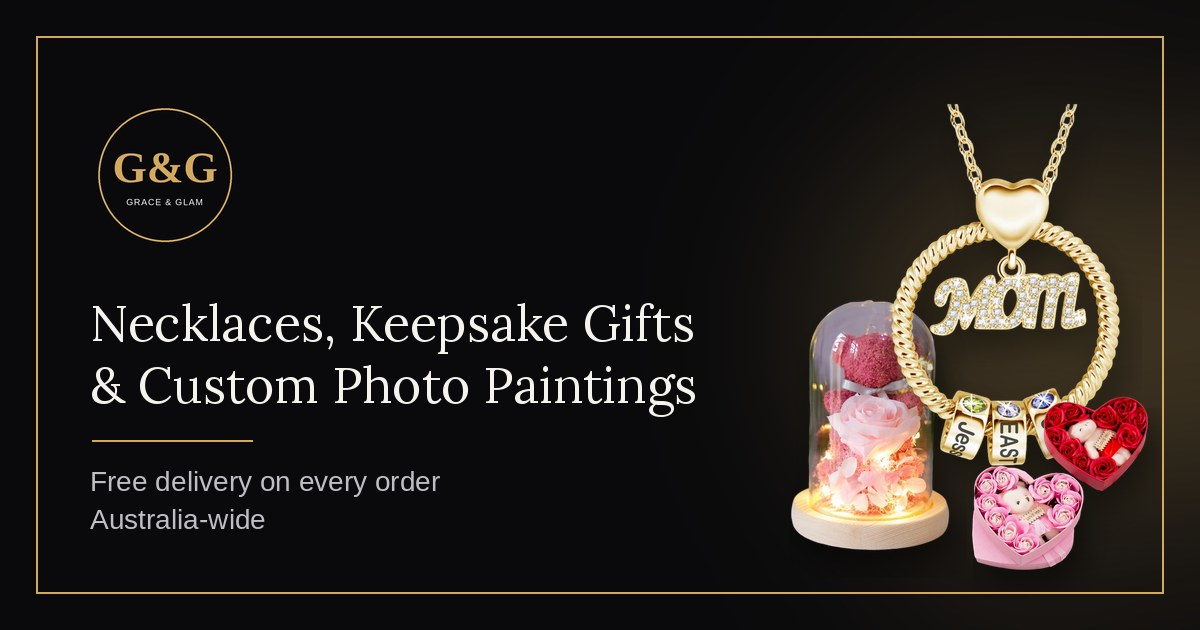
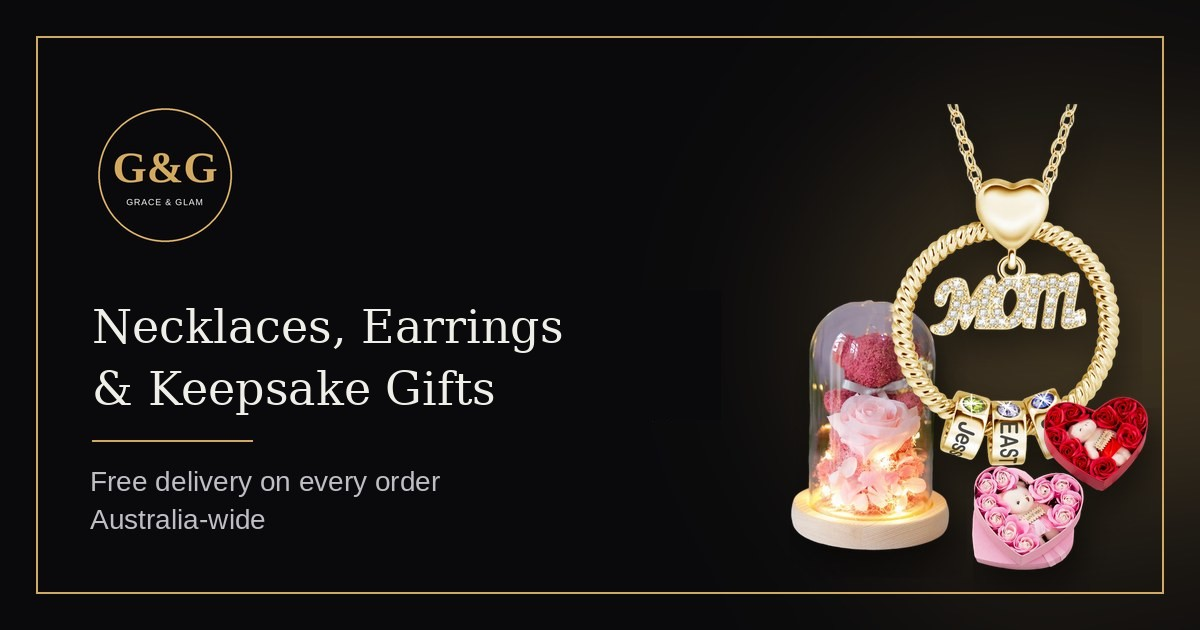
Fix SEO titles, share image and domain/email defaults for graceandglame.com
Claude-Session: https://claude.ai/code/session_01VXDeAGdUYDML9GMwgAADzR

Changed region(s): [[0.0617, 0.4825, 0.5858, 0.6635]]

diff --git a/src/app/layout.tsx b/src/app/layout.tsx
@@ -18,22 +18,23 @@ const inter = Inter({
 });
 
 const DESCRIPTION =
-  'Bespoke custom keepsakes & personalized gifts Australia. Necklaces, keepsake gift boxes and custom photo paintings. Free delivery on every order, Australia-wide.';
+  'Necklaces, earrings and keepsake gift boxes in Australia. Pendants, heart and pearl necklaces, rose gift sets and more. Free delivery on every order, Australia-wide.';
 
 export const metadata: Metadata = {
   metadataBase: new URL(SITE_URL),
 
   title: {
-    default: `${SITE.name} | Necklaces, Keepsake Gifts & Custom Photo Paintings Australia`,
+    default: `${SITE.name} | Necklaces, Earrings & Keepsake Gifts Australia`,
     template: `%s | ${SITE.name}`,
   },
   description: DESCRIPTION,
   keywords: [
-    'Custom Photo Painting Australia',
     'Necklaces Australia',
+    'Pendant Necklaces Australia',
+    'Heart Necklaces Australia',
+    'Pearl Necklaces Australia',
     'Keepsake Gift Boxes Australia',
-    '5D Diamond Art Australia',
-    'Personalized Jewelry Sydney Melbourne Brisbane',
+    'Jewellery Gifts Australia',
   ],
   applicationName: SITE.name,
   authors: [{ name: SITE.name, url: SITE_URL }],
@@ -51,14 +52,14 @@ export const metadata: Metadata = {
     siteName: SITE.name,
     locale: SITE.locale,
     url: SITE_URL,
-    title: `${SITE.name} | Necklaces, Keepsake Gifts & Custom Photo Paintings`,
+    title: `${SITE.name} | Necklaces, Earrings & Keepsake Gifts`,
     description: DESCRIPTION,
     images: [{ url: '/brand/og-default.jpg', width: 1200, height: 630, alt: 'Grace & Glam' }],
   },
 
   twitter: {
     card: 'summary_large_image',
-    title: `${SITE.name} | Necklaces, Keepsake Gifts & Custom Photo Paintings`,
+    title: `${SITE.name} | Necklaces, Earrings & Keepsake Gifts`,
     description: DESCRIPTION,
     images: ['/brand/og-default.jpg'],
   },

diff --git a/src/lib/seo.ts b/src/lib/seo.ts
@@ -10,7 +10,7 @@ import { Product, getAllImages, getDiscountPercent, getTotalStock } from '@/type
  * NEXT_PUBLIC_SITE_URL in the deployment environment.
  */
 export const SITE_URL = (
-  process.env.NEXT_PUBLIC_SITE_URL ?? 'https://graceandglam.com.au'
+  process.env.NEXT_PUBLIC_SITE_URL ?? 'https://graceandglame.com'
 ).replace(/\/$/, '');
 
 interface PostalAddress {
@@ -29,7 +29,7 @@ export const SITE = {
   language: 'en-AU',
   country: 'AU',
   currency: BRAND_CONFIG.currency,
-  email: 'sales@graceglam.com.au',
+  email: 'graceandglame.au@gmail.com',
   // No street address or phone until real ones exist. The placeholders that
   // were here ("72 Luxury Boulevard, Suite 4B" and a made-up 1800 number) were
   // being published in the Organization JSON-LD, where a false address is the

diff --git a/src/components/common/Footer.tsx b/src/components/common/Footer.tsx
@@ -59,8 +59,8 @@ export default function Footer() {
             <div className="space-y-3 text-sm text-gray-300 font-light">
               <div className="flex items-center gap-3 group">
                 <Mail className="w-4 h-4 text-[#d3a95d] shrink-0" />
-                <a href="mailto:sales@graceglam.com.au" className="hover:text-[#d3a95d] transition-colors">
-                  sales@graceglam.com.au
+                <a href="mailto:graceandglame.au@gmail.com" className="hover:text-[#d3a95d] transition-colors">
+                  graceandglame.au@gmail.com
                 </a>
               </div>
               <div className="flex items-center gap-3 group">

diff --git a/src/components/maison/TheMaisonPortal.tsx b/src/components/maison/TheMaisonPortal.tsx
@@ -473,10 +473,10 @@ export default function TheMaisonPortal({ initialTab = 'about' }: TheMaisonPorta
           <div className="p-6 bg-[#faf8f4] border border-gray-200 rounded-2xl">
             <p className="text-xs uppercase tracking-widest text-[#d3a95d] font-bold mb-1">Email</p>
             <a
-              href="mailto:sales@graceglam.com.au"
+              href="mailto:graceandglame.au@gmail.com"
               className="text-black font-semibold text-sm sm:text-base hover:text-[#d3a95d] transition-colors break-all"
             >
-              sales@graceglam.com.au
+              graceandglame.au@gmail.com
             </a>
           </div>
 

diff --git a/src/app/api/webhooks/stripe/route.ts b/src/app/api/webhooks/stripe/route.ts
@@ -14,7 +14,7 @@ export const runtime = 'nodejs';
  * non-2xx answer, so infrastructure errors return 500 on purpose.
  *
  * Setup (Stripe dashboard → Developers → Webhooks → Add endpoint):
- *   URL:    https://graceandglam.com.au/api/webhooks/stripe
+ *   URL:    https://graceandglame.com/api/webhooks/stripe
  *   Events: checkout.session.completed
  *           checkout.session.async_payment_succeeded
  * Copy the endpoint's signing secret (whsec_…) into STRIPE_WEBHOOK_SECRET.

diff --git a/src/lib/email.ts b/src/lib/email.ts
@@ -35,7 +35,7 @@ function getTransporter() {
  */
 export async function sendOrderConfirmationEmail({ to, order, customText }: EmailOptions): Promise<boolean> {
   const transporter = getTransporter();
-  const from = process.env.SMTP_FROM || `"Grace & Glam" <${process.env.SMTP_USER || "no-reply@graceandglam.com.au"}>`;
+  const from = process.env.SMTP_FROM || `"Grace & Glam" <${process.env.SMTP_USER || "no-reply@graceandglame.com"}>`;
 
   const customTextNotice = customText
     ? `

diff --git a/src/app/(storefront)/shop/page.tsx b/src/app/(storefront)/shop/page.tsx
@@ -58,7 +58,7 @@ export async function generateMetadata({
   }
 
   return {
-    title: 'Shop Necklaces, Keepsake Gifts & Custom Photo Paintings',
+    title: 'Shop Necklaces, Earrings & Keepsake Gifts',
     description:
       'Browse the Grace & Glam bespoke collection: necklaces, earrings, keepsake gift boxes and custom photo paintings. Free delivery on every order across Australia.',
     alternates: { canonical: '/shop' },

diff --git a/src/lib/checkout-fulfilment.ts b/src/lib/checkout-fulfilment.ts
@@ -144,7 +144,7 @@ async function resolveCustomer(session: Stripe.Checkout.Session): Promise<Public
       session.customer_details?.email ||
       session.metadata?.customerEmail ||
       session.customer_email ||
-      'customer@graceandglam.com.au',
+      'customer@graceandglame.com',
     avatar: 'GG',
     addresses: [],
     savedCards: [],
